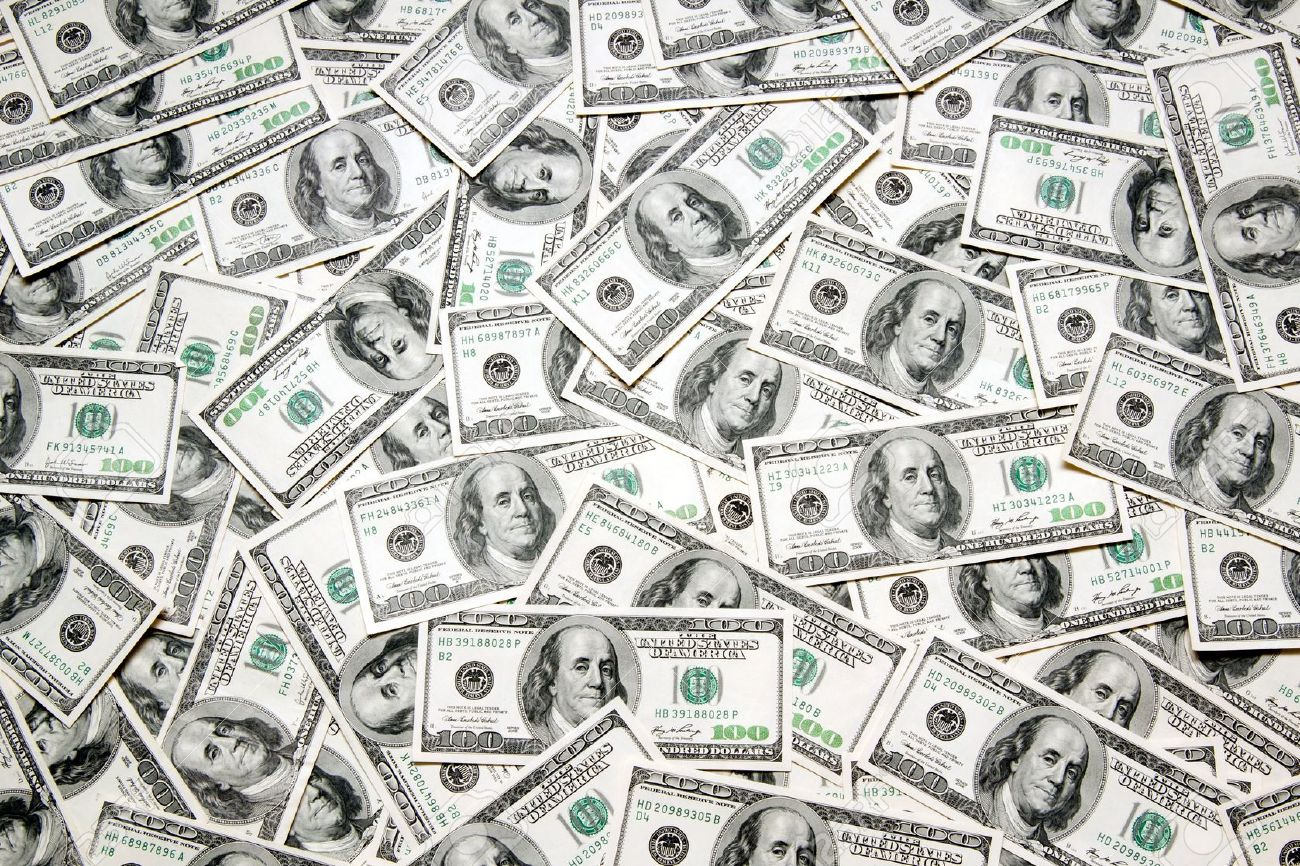
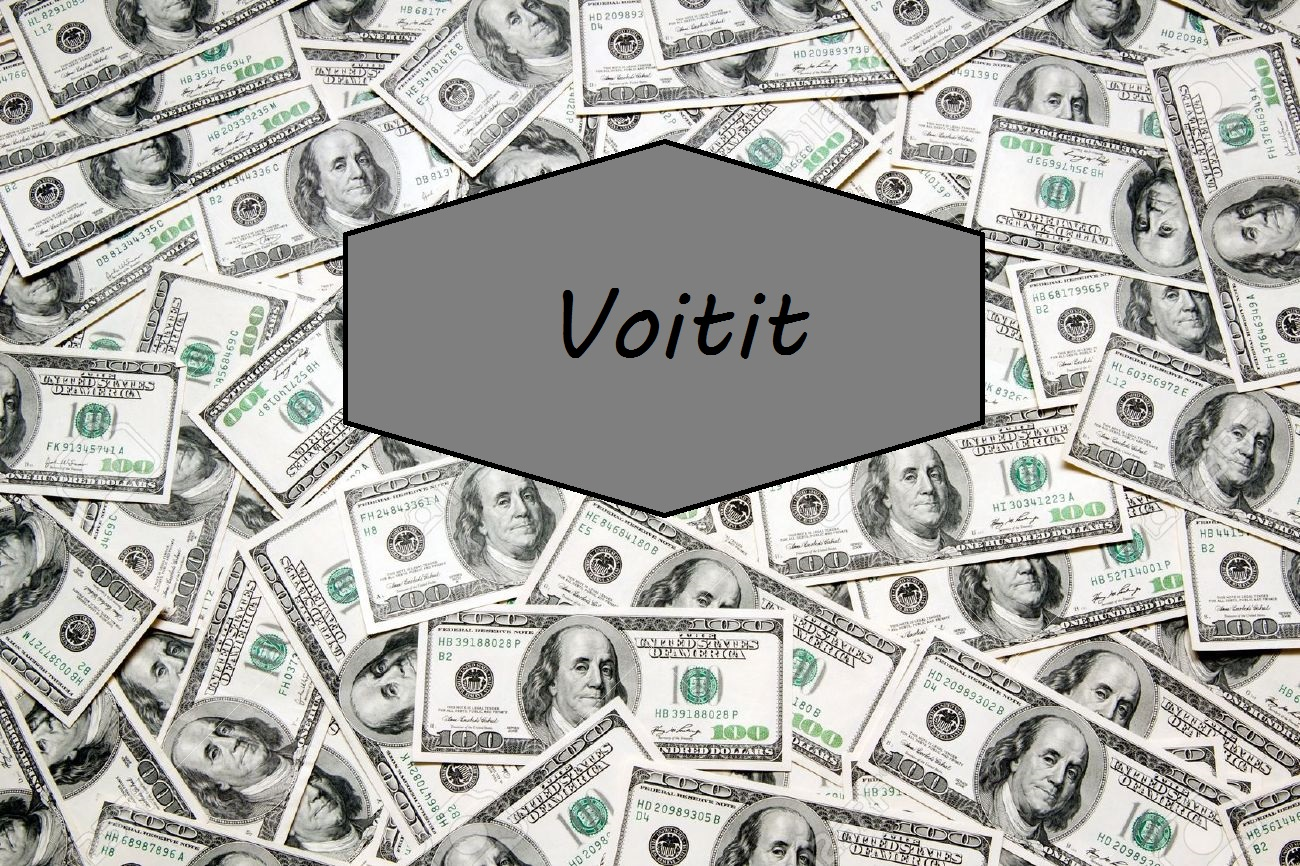
tein  hedelmäpelin valmiiksi

Changed region(s): [[0.2462, 0.1559, 0.7692, 0.5924]]

diff --git a/hedelma.css b/hedelma.css
@@ -83,12 +83,17 @@ body, html {
     background-color: khaki;
    
 }
+.laina {
+    position: absolute;
+    left: 10%;
+}
 
 /*  Modaalin tausta! */
 .modal {
     display: none; 
     position: fixed;
      z-index: 1;
+     padding-top: 100px;
      left: 0;
      top: 0;
      width: 100%;   /*Modaali peittää koko näytön */
@@ -97,16 +102,36 @@ body, html {
      background-color: rgb(0, 0, 0);
     background-color: rgba(0, 0, 0, 0.4); /* opacity eli läpinäkyvyys */
 }
-/*Modaali laatikko*/
+/*Modaali laatikko (ja kuva)*/
 .modal-content {
     background-color: #999;
-    margin: 15% auto;  /*15% tulee ylhäältä keskelle. */
+    margin: auto;  /*15% tulee ylhäältä keskelle. */
     padding: 20px;
-    border: 1px solid #888;
     width: 80%; /*voii olla pienempi, riippuu ruuudun koosta*/
     font: 24px; 
+    display: block;
     position: relative;
+    max-width: 500px;
+}
+/*modaalin caption*/
+#caption {
+    margin: auto;
+    display: block;
+    width: 80%;
+    max-width: 500px;
+    text-align: center;
+    color: #ccc;
+    padding: 10px 0;
+    height: 150px;
+}
+.modal-content, #caption {
+    animation-name: zoom;
+    animation-duration: 0.6s;
+}
 
+@keyframes zoom {
+    from {transform:scale(0)}
+    to   {transform:scale(1)}
 }
 /*close nappi*/
 .close {
@@ -123,4 +148,10 @@ body, html {
     color: black;
     text-decoration: none;
     cursor: pointer;
+    /*kuvan koko pienemmällä näytöllä 100%*/
+}
+@media only screen and (max-width: 500px){
+    .modal-content {
+        width: 100%;
+    }
 }

diff --git a/javascriipt.html b/javascriipt.html
@@ -14,20 +14,21 @@
         <!--Modaali-->       
         <div id="winModal" class="modal">
             <!--Modaalin asiat-->
-            <div class="modal-content">
-            <p>voitto</p>
+            <div class="modal-content" id="kuva1";>
+            <img id="voittoKuva" src="IMG/voittokuva.png" alt="voittokuva png" style="width:100%;max-width:300px ">
                 <span class="close">&times;</span>
             </div>  
         </div>
         <!--Häviö Modaali-->       
         <div id="loseModal" class="modal">
+
             <!--Häviö Modaalin asiat-->
             <div class="modal-content">
-                <p>Hävisit</p>
+                    <img id="HävisitKuva" src="IMG/Hävisit.png" alt="Hävisit png" style="width:100%;max-width:300px">
                 <span class="loseclose">&times;</span>
+                <div id="caption"></div>
             </div>
-        </div> 
-
+        </div>
     <p class="center">hedelmäpeli</p>   
     <div class ="center wheat info">
         <p>Rahat: <span id="rahat"></span>€</p>  
@@ -51,6 +52,7 @@
                 <img src="IMG/melooni.png" id="k3" alt= "melooni png"  style="width: 150px; height: 100px;">
             </span>
         </div>
+        <button onclick="haeLainaa()" class="laina">lainaa rahaa</button>
         <div class="locks">
             <span class="lukko1">
                  <img id="lock1" data-lock="false" onclick="lukitse(1)" src="IMG/lock.png" width="150px">

diff --git a/js.js b/js.js
@@ -1,11 +1,16 @@
+var kuva1 = document.getElementById("kuva1");
+var voittoKuva = document.getElementById("voittoKuva");
+var hävisitKuva = document.getElementById("hävisitKuva"); 
+var captionTeksti = document.getElementById("caption");
+var laina = document.getElementById("haeLainaa");
 let lukitus = false;
-
 let lock1 = lock2 = lock3 = 0; 
 
 let images = [ "paaryna.png", "kirsikka.png", "melooni.png", "avatar.png"];
 let kertoimet = [ 2, 5, 10, 30];
 let rahat = 50;
 let panos = 1; 
+let laina = 1; 
 
 let slot1 = 0;
 let slot2 = 1; 
@@ -18,9 +23,11 @@ var span = document.getElementsByClassName("close")[0];
 // kun käyttäjä painaa nappia 
 function showModal(elemId){
     document.getElementById(elemId).style.display = "block";
+    captionTeksti.innerHTML = this.alt;
 }
 function loseModal(){
-document.getElementById(elemId).style.display = "block; "
+    document.getElementById(elemId).style.display = "block"; 
+    captionTeksti.innerHTML = this.alt;
 }
 
 span.onclick = function() {
@@ -41,6 +48,7 @@ function asetaPanos(n) {
     panos = n;
     update();   
 }   
+
 
 function update (){
 
@@ -129,7 +137,13 @@ function pelaaPainike() {
 } 
     
 
-   
+function haeLainaa() {
+    if (laina = 1) {
+        rahat = rahat + 50;
+        update();
+    } 
+    
+}
 
 /************************************ *
 Lukituksen toiminta
